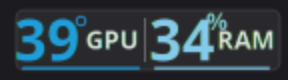
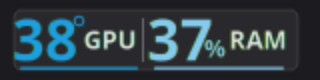
GPUMonitor 1.0.1: corregir porcentaje de RAM en el icono

diff --git a/gpumonitor.py b/gpumonitor.py
@@ -43,7 +43,7 @@ import time
 
 APP_NAME = "GPUMonitor"
 APP_ID = "gpumonitor"
-VERSION = "1.0.0"
+VERSION = "1.0.1"
 REFRESH_MS = 1500
 
 
@@ -640,7 +640,7 @@ def make_tray_icon(path, temp, color, ram_percent=None, ram_color=None, palette=
     fg_rgb = _rgb(palette["fg"])
     label_rgb = fg_rgb
     has_ram = ram_percent is not None
-    width = 268 if has_ram else 64
+    width = 288 if has_ram else 64
     height = 64
 
     surface = cairo.ImageSurface(cairo.FORMAT_ARGB32, width, height)
@@ -673,7 +673,7 @@ def make_tray_icon(path, temp, color, ram_percent=None, ram_color=None, palette=
         _rounded_rect(cr, 8, height - 5, 118, 2.5, 1.25)
         cr.set_source_rgba(*temp_rgb, 0.95)
         cr.fill()
-        _rounded_rect(cr, 140, height - 5, 116, 2.5, 1.25)
+        _rounded_rect(cr, 142, height - 5, 130, 2.5, 1.25)
         cr.set_source_rgba(*ram_rgb, 0.95)
         cr.fill()
 
@@ -719,11 +719,11 @@ def make_tray_icon(path, temp, color, ram_percent=None, ram_color=None, palette=
         layout.set_font_description(Pango.FontDescription("Sans Bold 18"))
         layout.set_text("%", -1)
         percent_w, percent_h = layout.get_pixel_size()
-        cr.move_to(203 - percent_w / 2.0, 13 - percent_h / 2.0)
+        cr.move_to(203 - percent_w / 2.0, 40 - percent_h / 2.0)
         cr.set_source_rgba(*ram_rgb, 0.95)
         PangoCairo.show_layout(cr, layout)
 
-        draw_text("RAM", 19, label_rgb, 232, 31)
+        draw_text("RAM", 19, label_rgb, 246, 31)
 
     surface.write_to_png(path)
 

diff --git a/share/RELEASE_NOTES-v1.0.1.md b/share/RELEASE_NOTES-v1.0.1.md
@@ -1,0 +1,54 @@
+# GPUMonitor 1.0.1
+
+Versión de corrección: mejora visual del porcentaje de RAM en el icono del
+panel.
+
+## Cambios
+
+- El símbolo `%` de la RAM ya no se solapa con la etiqueta `RAM`: ahora es más
+  pequeño, está alineado con la base del número y tiene separación.
+- Icono ligeramente más ancho para dar aire entre `34%` y `RAM`.
+- Sin cambios en la lectura de sensores ni en el resto de funciones.
+
+Para el detalle completo de la primera versión, consulta las notas de
+[GPUMonitor 1.0.0](https://github.com/shary-hh/gpumonitor/releases/tag/v1.0.0).
+
+## Instalación
+
+### Paquete .deb
+
+```bash
+sudo apt install ./gpumonitor_1.0.1_all.deb
+```
+
+Si actualizas desde 1.0.0, el propio `apt` reemplaza la versión anterior:
+
+```bash
+sudo apt install ./gpumonitor_1.0.1_all.deb
+```
+
+### Desde el código
+
+```bash
+tar xzf gpumonitor-1.0.1.tar.gz
+cd gpumonitor-1.0.1
+./install.sh
+```
+
+## Capturas
+
+![Ventana de GPUMonitor](https://raw.githubusercontent.com/shary-hh/gpumonitor/v1.0.1/docs/screenshot.png)
+
+![Icono en el panel](https://raw.githubusercontent.com/shary-hh/gpumonitor/v1.0.1/docs/panel.png)
+
+## Verificación
+
+`SHA256SUMS` se adjunta a la release:
+
+```bash
+sha256sum -c SHA256SUMS
+```
+
+## Licencia
+
+MIT © 2026 shary-hh.

diff --git a/README.md b/README.md
@@ -90,7 +90,7 @@ Todo lo que se lee está en `sysfs` y es legible por tu usuario.
 ### Paquete .deb (recomendado)
 
 ```bash
-sudo apt install ./gpumonitor_1.0.0_all.deb
+sudo apt install ./gpumonitor_1.0.1_all.deb
 ```
 
 Instala la aplicación para todos los usuarios, con lanzador, icono y página de
@@ -100,8 +100,8 @@ repositorio.
 ### Desde el código (solo tu usuario)
 
 ```bash
-tar xzf gpumonitor-1.0.0.tar.gz
-cd gpumonitor-1.0.0
+tar xzf gpumonitor-1.0.1.tar.gz
+cd gpumonitor-1.0.1
 chmod +x install.sh gpumonitor.py
 ./install.sh
 ```
@@ -267,8 +267,8 @@ Repositorio: https://github.com/shary-hh/gpumonitor
 Para publicar una nueva release:
 
 ```bash
-git tag v1.0.0
-git push origin v1.0.0
+git tag v1.0.1
+git push origin v1.0.1
 ```
 
 El workflow `.github/workflows/release.yml` construye el `.deb`, el tarball y

diff --git a/share/ANUNCIO-es.md b/share/ANUNCIO-es.md
@@ -42,7 +42,7 @@ la app lo detecta y lo usa automáticamente.
 ### Paquete .deb (recomendado)
 
 ```bash
-sudo apt install ./gpumonitor_1.0.0_all.deb
+sudo apt install ./gpumonitor_1.0.1_all.deb
 ```
 
 Dependencias: `python3-gi`, `gir1.2-gtk-3.0`, `python3-cairo` y
@@ -51,8 +51,8 @@ Dependencias: `python3-gi`, `gir1.2-gtk-3.0`, `python3-cairo` y
 ### Desde el código, solo para tu usuario
 
 ```bash
-tar xzf gpumonitor-1.0.0.tar.gz
-cd gpumonitor-1.0.0
+tar xzf gpumonitor-1.0.1.tar.gz
+cd gpumonitor-1.0.1
 ./install.sh                # lanzador y comando gpumonitor
 ./install.sh --autostart    # además arranca al iniciar sesión
 ./install.sh --uninstall    # desinstalar

diff --git a/share/ANNOUNCEMENT-en.md b/share/ANNOUNCEMENT-en.md
@@ -45,7 +45,7 @@ sensor, the app detects and uses it automatically.
 ### .deb package (recommended)
 
 ```bash
-sudo apt install ./gpumonitor_1.0.0_all.deb
+sudo apt install ./gpumonitor_1.0.1_all.deb
 ```
 
 Dependencies: `python3-gi`, `gir1.2-gtk-3.0`, `python3-cairo` and
@@ -54,8 +54,8 @@ Dependencies: `python3-gi`, `gir1.2-gtk-3.0`, `python3-cairo` and
 ### From source, current user only
 
 ```bash
-tar xzf gpumonitor-1.0.0.tar.gz
-cd gpumonitor-1.0.0
+tar xzf gpumonitor-1.0.1.tar.gz
+cd gpumonitor-1.0.1
 ./install.sh                # launcher and `gpumonitor` command
 ./install.sh --autostart    # also start at login
 ./install.sh --uninstall    # uninstall
